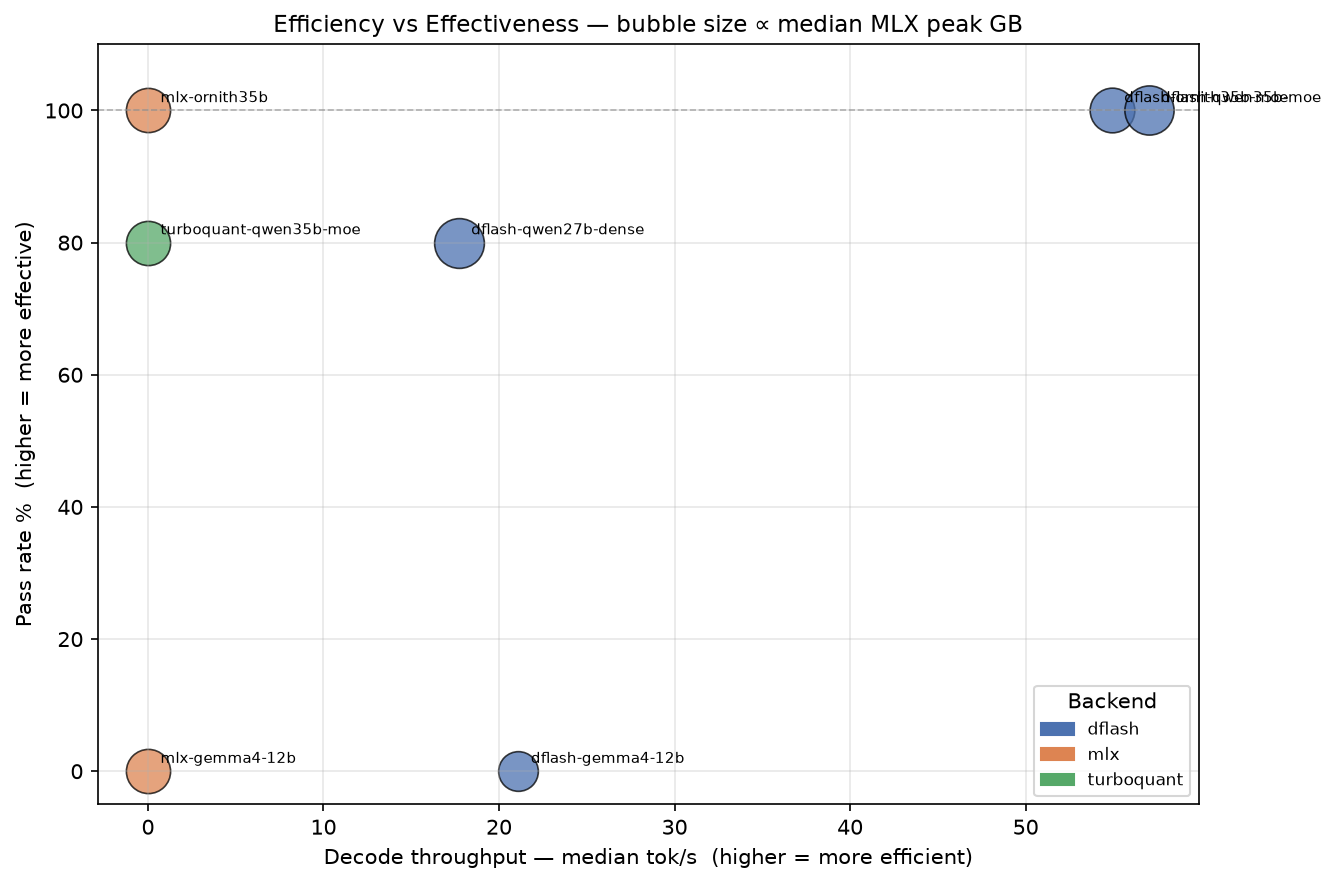
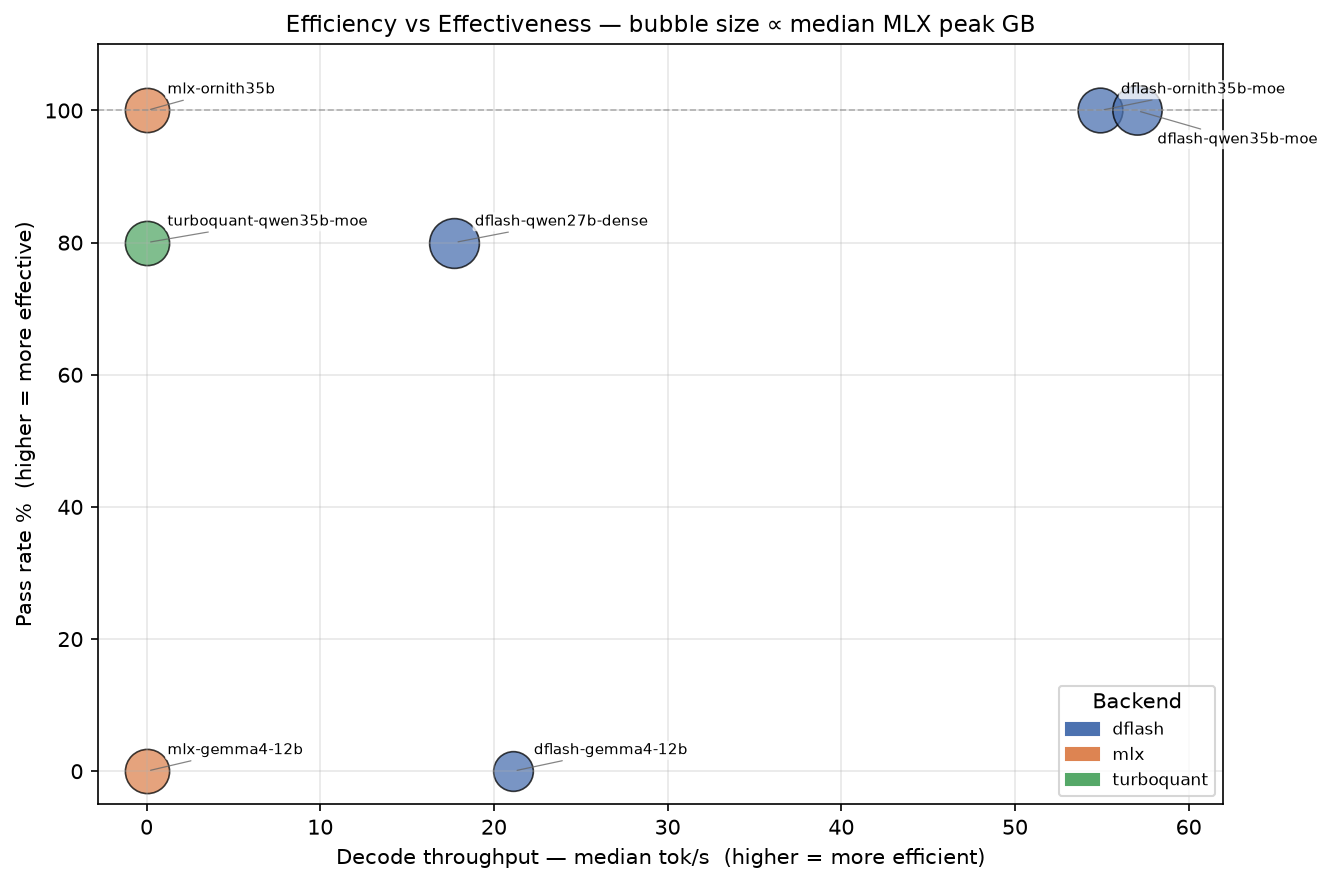
fix: improve efficiency/effectiveness chart label readability
- Add collision-aware label offsets in agent_pack_report scatter plot
- Add callout boxes and leader lines for close points
- Expand right-side x-axis margin to prevent label clipping
- Regenerate AGENT_PROBLEM_PACK_RESULTS.md and updated chart assets
- Sync updated chart into docs/img/article5 for Medium article embedding
- Update article subtitle to stronger feasibility-to-production framing

diff --git a/llmstack/tools/agent_pack_report.py b/llmstack/tools/agent_pack_report.py
@@ -236,6 +236,18 @@ def fig_efficiency_vs_effectiveness(aggs: list[ModelAggregate], img_dir: Path) -
     """Scatter: decode_tps (efficiency) vs pass_rate (effectiveness), bubble = mlx_peak."""
     fig, ax = plt.subplots(figsize=(9, 6))
     backends = {ma.backend for ma in aggs}
+    points: list[tuple[float, float]] = []
+
+    # Candidate text offsets (in points) used to reduce label collisions
+    # when models are close in (decode_tps, pass_rate) space.
+    offset_candidates = [
+        (10, 10),
+        (10, -14),
+        (-78, 10),
+        (-78, -14),
+        (12, 24),
+        (-82, 24),
+    ]
 
     for ma in aggs:
         x = ma.decode_tps_median
@@ -245,18 +257,33 @@ def fig_efficiency_vs_effectiveness(aggs: list[ModelAggregate], img_dir: Path) -
         size = (ma.mlx_peak_median_gb or 30.0) * 15
         color = _bar_colors([ma.model_key])[0]
         ax.scatter(x, y, s=size, color=color, alpha=0.75, edgecolors="black", linewidths=0.8)
+
+        # Count already-plotted neighboring points and rotate label offset accordingly.
+        neighbors = sum(1 for px, py in points if abs(px - x) < 3.0 and abs(py - y) < 6.0)
+        dx, dy = offset_candidates[neighbors % len(offset_candidates)]
+        ha = "left" if dx >= 0 else "right"
+
         ax.annotate(
             ma.model_key,
             (x, y),
             textcoords="offset points",
-            xytext=(6, 4),
+            xytext=(dx, dy),
             fontsize=7,
+            ha=ha,
+            va="center",
+            bbox={"boxstyle": "round,pad=0.15", "fc": "white", "ec": "none", "alpha": 0.75},
+            arrowprops={"arrowstyle": "-", "color": "#666666", "lw": 0.6, "alpha": 0.8},
         )
+        points.append((x, y))
 
     ax.set_xlabel("Decode throughput — median tok/s  (higher = more efficient)", fontsize=10)
     ax.set_ylabel("Pass rate %  (higher = more effective)", fontsize=10)
     ax.set_title("Efficiency vs Effectiveness — bubble size ∝ median MLX peak GB", fontsize=11)
     ax.set_ylim(-5, 110)
+    # Keep extra room on the right so top-right labels are readable.
+    xs = [ma.decode_tps_median or 0.0 for ma in aggs]
+    if xs:
+        ax.set_xlim(min(xs) - 2.8, max(xs) + 5.0)
     ax.axhline(100, color="#888888", linestyle="--", linewidth=0.8, alpha=0.6)
     ax.grid(True, alpha=0.3)
     ax.legend(handles=_legend_patches(backends), title="Backend", fontsize=8)

diff --git a/AGENT_PROBLEM_PACK_RESULTS.md b/AGENT_PROBLEM_PACK_RESULTS.md
@@ -1,6 +1,6 @@
 # AGENT_PROBLEM_PACK_RESULTS.md
 
-Generated at: 2026-07-13T16:39:48  
+Generated at: 2026-07-13T17:37:56  
 Matrix run: **20260713_003824**
 
 This report cross-references every Agent Problem Pack run with the live server logs

diff --git a/docs/medium_article_05_agent_problem_pack.md b/docs/medium_article_05_agent_problem_pack.md
@@ -1,6 +1,6 @@
 # Making Local Coding Agents Production-Ready
 
-## From Sebastian Raschka's Vision to Measurable Reality: The Agent Problem Pack Validation
+## From Feasibility to Production: Validating Local Coding Agents with the Agent Problem Pack
 
 ![Making Local Coding Agents Production-Ready](img/article5/kowalski_part5.png)
 